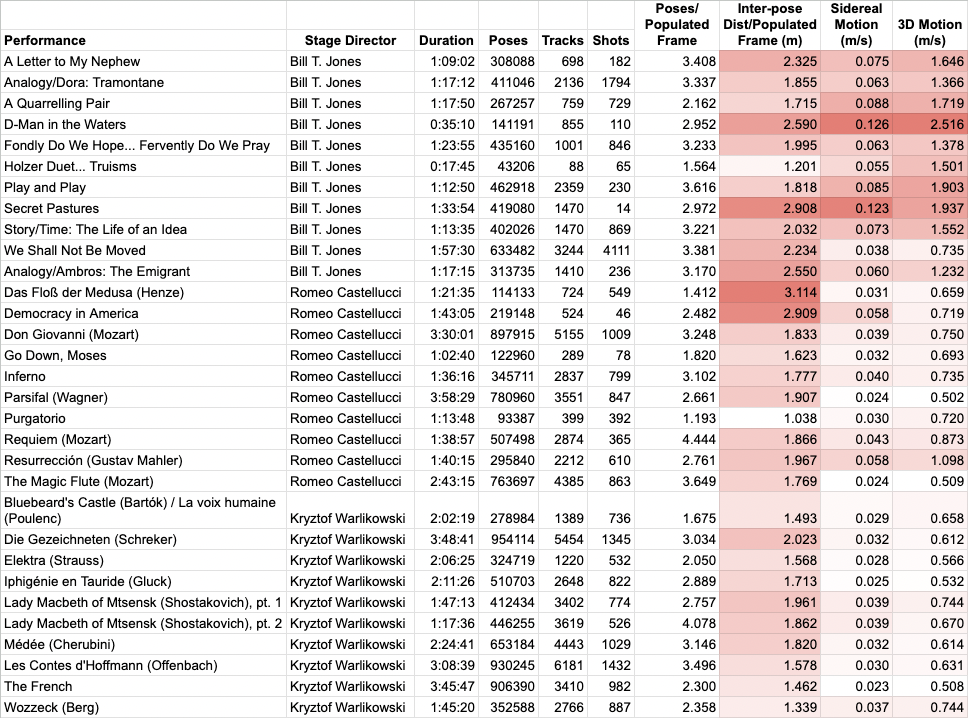
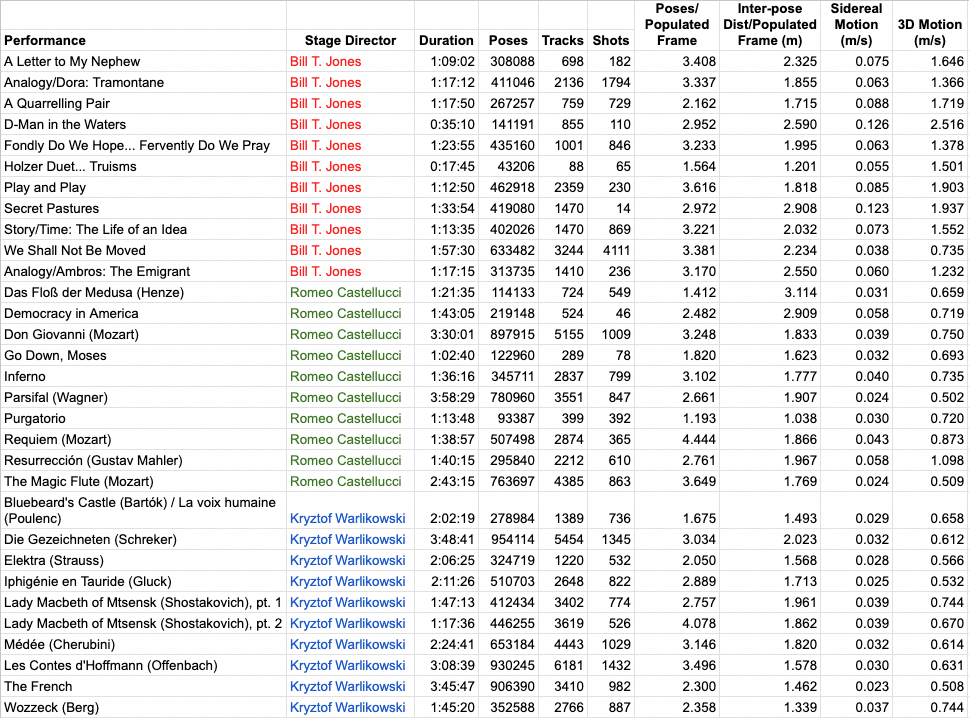
More slides/highlighting re: large corpus

diff --git a/slides.md b/slides.md
@@ -157,9 +157,17 @@ Sun, Jennifer J, Jiaping Zhao, Liang-Chieh Chen, Florian Schroff, Hartwig Adam a
 
 ### Which Features Are Best for Differentiating between Directors?
 
+<img class="r-stretch" src="assets/results/31_performances_hl.png" />
+
+
+---
+
+
+### Which Features Are Best for Differentiating between Directors?
+
 <div class="img-row">
 
-![3D coordinates confusion matrix](assets/results/LOO_3D_coords.png "3D coordinates confusion matrix") Body keypoint coords (3d)
+![3D coordinates confusion matrix](assets/results/LOO_3D_coords.png "3D coordinates confusion matrix") Body keypoint coords (3D)
 
 ![Action recognition embeddings confusion matrix](assets/results/LOO_action_features.png "Action recognition embeddings confusion matrix") Action recognition embeddings
 
@@ -183,11 +191,19 @@ Sun, Jennifer J, Jiaping Zhao, Liang-Chieh Chen, Florian Schroff, Hartwig Adam a
 
 ![Pose motion and distance feature importances](assets/results/importances_motion_distance_nb.png "Pose motion and distance feature importances") Pose motion and distance
 
-![Keypoint importances](assets/results/importances_keypoints_nb.png "Keypoint importances") Body keypoint coords (3D)
-
 ![Pose embedding importances](assets/results/importances_poem_nb.png "Pose embedding importances") View-invariant pose embedding elements
 
 </div>
+
+
+---
+
+
+### Which Features Are Best for Differentiating between Directors?
+
+<img class="r-stretch" src="assets/results/importances_keypoints_nb.png" />
+
+Body keypoint coords (3D)
 
 
 ---
